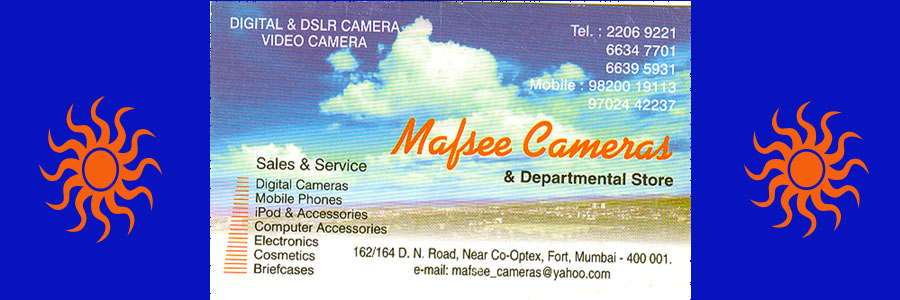
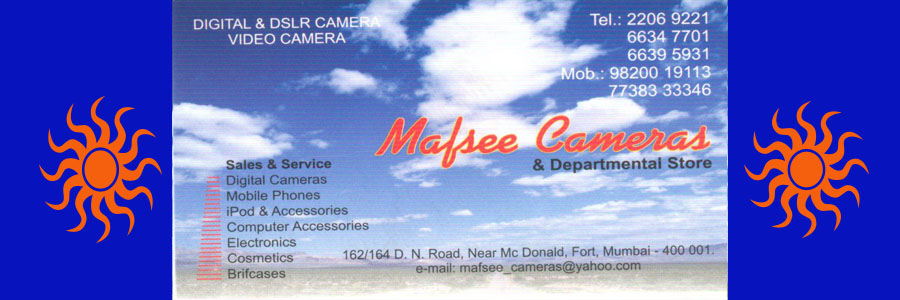
new updates

diff --git a/nikon/coolpix/index.html b/nikon/coolpix/index.html
@@ -283,7 +283,6 @@ title: Mafsee Cameras
     <th width="25%"></th>
     <th width="25%"></th>
   </tr</th>
-.
 </tr>
 
 <tr>
@@ -294,7 +293,7 @@ title: Mafsee Cameras
 </tr>
 
 <tr>
-<td><p><b>MRP: INR 8,450/-</b></p>HDMI Cable included<p></td><td>
+<td><p><b>MRP: INR 8,450/-</b></p></td><td>
 <ul>
 <li>7.5cm Touch panel LCD</li>
 <li>Touch focus, shoot & edit </li>
@@ -308,7 +307,7 @@ title: Mafsee Cameras
 </ul>
 </td>
 
-<td><p><b>MRP: INR 7,950/-</b></p>HDMI Cable included<p></td><td>
+<td><p><b>MRP: INR 7,950/-</b></p></td><td>
 <ul>
 <li>20.1 Megapixels</li>
 <li>Special effects & Filter effects</li>
@@ -322,6 +321,156 @@ title: Mafsee Cameras
 </ul></td>
 </tr>
 </table>
+
+
+<table border="0" width="100%">
+<tr>
+<th> <tr>
+    <th width="25%"></th>
+    <th width="25%"></th>
+    <th width="25%"></th>
+    <th width="25%"></th>
+  </tr</th>
+</tr>
+
+<tr>
+<td style="width: 200px; height: 200px;"><p><b>COOLPIX S2700</b></p><img src="/images/nikkon/coolpix/s2700.jpg" height="200" width="200"></p></td><td><img src="/images/nikkon/coolpix/s2700s.jpg" height="200" width="200"></td>
+<td style="width: 300px; height: 300px;"><p><b>COOLPIX S31</b></p><img src="/images/nikkon/coolpix/s31.jpg" height="300" width="300"></td>
+<td style="width: 300px; height: 300px;"><p></p><img src="/images/nikkon/coolpix/s31s.jpg" height="300" width="300"></td>
+
+</tr>
+
+<tr>
+<td><p><b>MRP: INR 5,950/-</b></p></td><td>
+<ul>
+<li>28.8mm Slim Design makes it easy to carry</li>
+<li>One Touch HD Movie button lets you capture quickly</li>
+<li>Motion Blur Reduction Auto adjust to freeze movements</li>
+<li>26mm Wide Angle for more image area coverage</li>
+<li>Glamour Retouch</li>
+<li>5cm Macro Mode</li>
+<li>Subject Tracking Mode</li>
+<li>Smart Portrait System</li>
+<li>Hini Language menu</li>
+</ul></td>
+ 
+<td><p><b>MRP: INR 5,950/-</b></td><td>
+<ul>
+<li>Water Resistant</li>
+<li>Waterproof, Shockproof and Dust proof</li>
+<li>Simple Layout & easy to understand menu</li>
+<li>Capture best movements in High Definition Movie</li>
+<li>One Touch HD Movie Recording </li>
+<li>Electronic VR</li>
+<li>Create ln camera slide show and animated effects</li>
+<li>Built-in Scene Modes</li>
+<li>5 indian language Menu</li>
+</ul>
+</td>
+</tr> 
+
+<table border="0" width="100%">
+<tr>
+<th> <tr>
+    <th width="25%"></th>
+    <th width="25%"></th>
+    <th width="25%"></th>
+    <th width="25%"></th>
+  </tr</th>
+</tr>
+
+<tr>
+<td style="width: 200px; height: 200px;"><p><b>COOLPIX S02</b></p><img src="/images/nikkon/coolpix/s02.jpg" height="200" width="200"></p></td><td><img src="/images/nikkon/coolpix/s02s.jpg" height="200" width="200"></td>
+<td style="width: 300px; height: 300px;"><p><b>COOLPIX L820</b></p><img src="/images/nikkon/coolpix/l820.png" height="300" width="300"></td>
+<td style="width: 300px; height: 300px;"><p></p><img src="/images/nikkon/coolpix/l820s.png" height="300" width="300"></td>
+</tr>
+</table>
+<table border="0" width="100%">
+<tr>
+<th> <tr>
+    <th width="25%"></th>
+    <th width="25%"></th>
+    <th width="25%"></th>
+    <th width="25%"></th>
+  </tr</th>
+
+</tr>
+
+<tr>
+<td><p><b>MRP: INR 8,450/-</b></p></td><td>
+<ul>
+<li>Ultra Compact & Lightweight</li>
+<li>13.2 effective Megapixels</li>
+<li>3x Zoom NIKKOR Glass Lens</li>
+<li>6.8cm (2.7in), 230k dot Touch Screen LCD</li>
+<li>7.3 GB Internal Memory</li>
+<li>In-camera Editing</li>
+<li>Touch Screen LCD</li>
+<li>Electronic VR</li>
+<li>FULL HD Movie</li>
+<li>5 Indian Language Menu</li>
+<td>
+
+
+
+<td><p><b>MRP: INR 15,450/-</b></p></td><td>
+<ul>
+  <li>16.0 Megapixels CMOS Sensor</li>
+  <li>22.5-675mm Zoom range with Hybrid VR</li>
+  <li>D-SLR like grip & side zoom control increased stability</li>
+  <li>FULL HD Movie recording</li>
+  <li>Easy Panoroma</li>
+  <li>1cm Macro Mode</li>
+  <li>Powered by AA Batteries</li>
+  <li>5 Indian Language Menu</li>
+</ul>
+</td>
+</tr>
+</table>
+<table border="0" width="100%">
+<tr>
+<th> <tr>
+    <th width="25%"></th>
+    <th width="25%"></th>
+    <th width="25%"></th>
+    <th width="25%"></th>
+  </tr</th>
+</tr>
+
+<tr>
+<td style="width: 200px; height: 200px;"><p><b>COOLPIX L610</b></p><img src="/images/nikkon/coolpix/l620.jpg" height="200" width="200"></p></td><td><img src="/images/nikkon/coolpix/l610.jpg" height="200" width="200"></td>
+<td style="width: 300px; height: 300px;"><p><b>COOLPIX L320</b></p><img src="/images/nikkon/coolpix/.png" height="300" width="300"></td>
+<td style="width: 300px; height: 300px;"><p></p><img src="/images/nikkon/coolpix/.png" height="300" width="300"></td>
+</tr>
+
+
+
+
+
+
+
+
+
+
+
+
+
+
+
+
+
+
+
+
+
+
+
+
+
+
+
+
+
 
 
 

diff --git a/_layouts/default.html b/_layouts/default.html
@@ -134,7 +134,7 @@ if (isiPad) $('#menu ul').addClass('no-transition');
              
                 <p>
                   Tel no. 22069221 / 66347701 / 66395931<br>
-                  Mob.no. 9820019113 / 9702442237<br>
+                  Mob.no. 9820019113 / 7738333346<br>
                   email:mafsee_cameras@yahoo.com
                 </p>
              </div>
